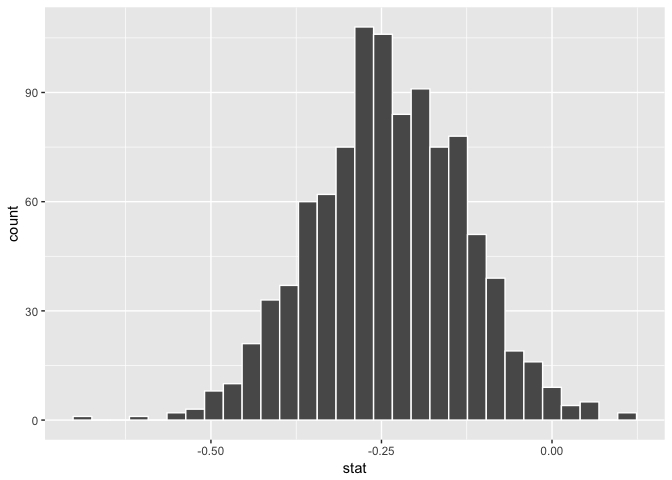
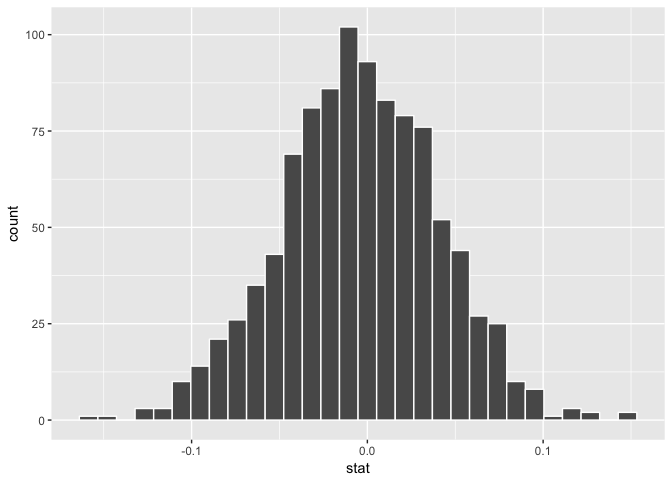
Diff in props is working (All examples in README working)

diff --git a/profiles_examples.md b/profiles_examples.md
@@ -2,14 +2,6 @@
 -   [Hypothesis tests](#hypothesis-tests)
 -   [Confidence intervals](#confidence-intervals)
 
-Infer: a grammar for statistical inference
-
-Using a sample of profiles from the `okcupiddata` package
-
-------------------------------------------------------------------------
-
-The objective of this package is to perform statistical inference using a grammar that illustrates the underlying concepts and a format that coheres with the `tidyverse`.
-
 ### Hypothesis tests
 
 ![h-test diagram](figs/ht-diagram.png)
@@ -222,12 +214,17 @@ prof_small %>%
 
 ![](profiles_examples_files/figure-markdown_github-ascii_identifiers/unnamed-chunk-15-1.png)
 
-Two categorical variables (diff in proportions) (not yet implemented)
+Two categorical variables (diff in proportions)
 
-    prof_small %>%
-      specify(sex ~ frisco) %>%
-      generate(reps = 1000, type = "bootstrap") %>%
-      calculate(stat = "diff in prop")
+``` r
+prof_small %>%
+  specify(sex ~ frisco) %>%
+  generate(reps = 1000, type = "bootstrap") %>%
+  calculate(stat = "diff in props") %>% 
+  visualize()
+```
+
+![](profiles_examples_files/figure-markdown_github-ascii_identifiers/unnamed-chunk-16-1.png)
 
 Two numerical vars - SLR
 
@@ -239,4 +236,4 @@ prof_small %>%
   visualize()
 ```
 
-![](profiles_examples_files/figure-markdown_github-ascii_identifiers/unnamed-chunk-16-1.png)
+![](profiles_examples_files/figure-markdown_github-ascii_identifiers/unnamed-chunk-17-1.png)

diff --git a/README.md b/README.md
@@ -137,12 +137,12 @@ One numerical variable one categorical (2 levels) (diff in means)
       generate(reps = 100, type = "bootstrap") %>%
       calculate(stat = "diff in means")
 
-Two categorical variables (diff in proportions) (not yet implemented)
+Two categorical variables (diff in proportions)
 
     mtcars %>%
       specify(am ~ vs) %>%
       generate(reps = 100, type = "bootstrap") %>%
-      calculate(stat = "diff in prop")
+      calculate(stat = "diff in props")
 
 Two numerical vars - SLR
 
